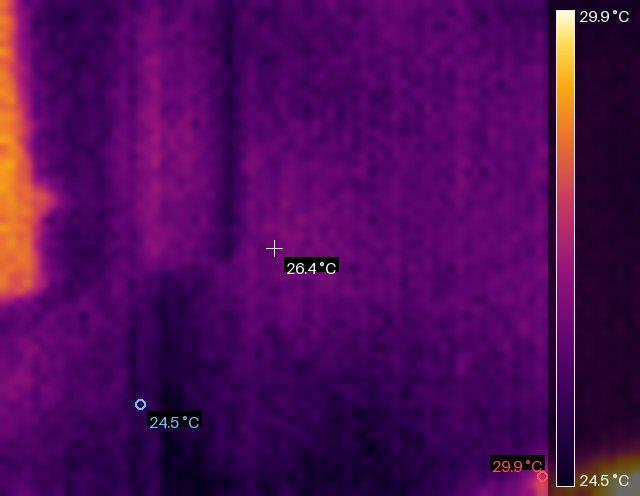
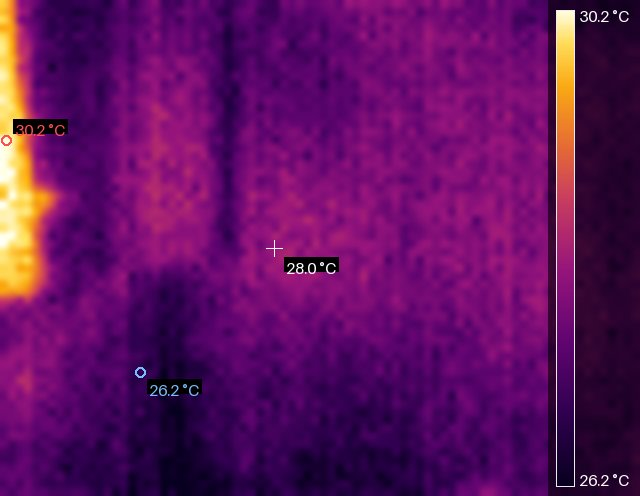
Wait for the first frame on connect, document measured frame rates and add palette montage

diff --git a/custom_components/senxor_thermal/coordinator.py b/custom_components/senxor_thermal/coordinator.py
@@ -169,16 +169,22 @@ class SenXorCoordinator(DataUpdateCoordinator[SenXorData]):
         self._frame_times: deque[float] = deque(maxlen=32)
         self._connect_lock = asyncio.Lock()
         self._render_cache: tuple[int, int, RenderedFrame] | None = None
+        self._first_frame = asyncio.Event()
         self.streaming = True
         self.frames_rendered = 0
 
     # -- connection --------------------------------------------------------
-    async def async_connect(self) -> None:
-        """(Re)connect to the camera and request the continuous stream."""
+    async def async_connect(self, wait_for_frame: float = 8.0) -> None:
+        """(Re)connect to the camera, start streaming and wait for one frame."""
         async with self._connect_lock:
+            self._first_frame.clear()
             await self._connection.connect()
             await self._connection.start_stream()
             self.streaming = True
+            try:
+                await asyncio.wait_for(self._first_frame.wait(), timeout=wait_for_frame)
+            except TimeoutError:
+                _LOGGER.debug("No frame within %.1f s of connecting", wait_for_frame)
 
     async def async_shutdown(self) -> None:
         """Close the connection."""
@@ -187,6 +193,7 @@ class SenXorCoordinator(DataUpdateCoordinator[SenXorData]):
     def _handle_frame(self, frame: ThermalFrame) -> None:
         self._frame = frame
         self._frame_times.append(frame.received)
+        self._first_frame.set()
 
     # -- commands ----------------------------------------------------------
     async def async_start_stream(self) -> None:

diff --git a/docs/protocol.md b/docs/protocol.md
@@ -75,7 +75,11 @@ The device acknowledges with a 13 byte message, e.g. `#0008WREG01FD`
 ```
 
 * length `0x2808` = 10248 = 4 (`GFRA`) + 10244
-* total message length 10253 bytes, ~15.5 frames per second
+* total message length 10253 bytes.  The frame rate is set by a divider inside
+  the device: 4.3 - 6.7 fps were observed after using the *FPS up/down*
+  registers, ~14 fps for a fresh session and 15.8 fps on the viewer FPS display
+  right after connecting.  Both the viewer and this integration simply measure
+  the arrival rate.
 
 Payload layout:
 

diff --git a/README.md b/README.md
@@ -12,7 +12,7 @@ readouts) was re-implemented in pure Python inside a HACS-installable
 integration.
 
 ```
-camera.thermal_camera        live thermogram, 80x62 @ ~15 fps
+camera.thermal_camera        live thermogram, 80x62, 4-16 fps (device divider)
 sensor.*                     min / max / average / centre temperature, hot spot, fps
 number.*                     emissivity, temperature offset, manual scale limits
 select.*                     palette, image unit, spatial filtering
